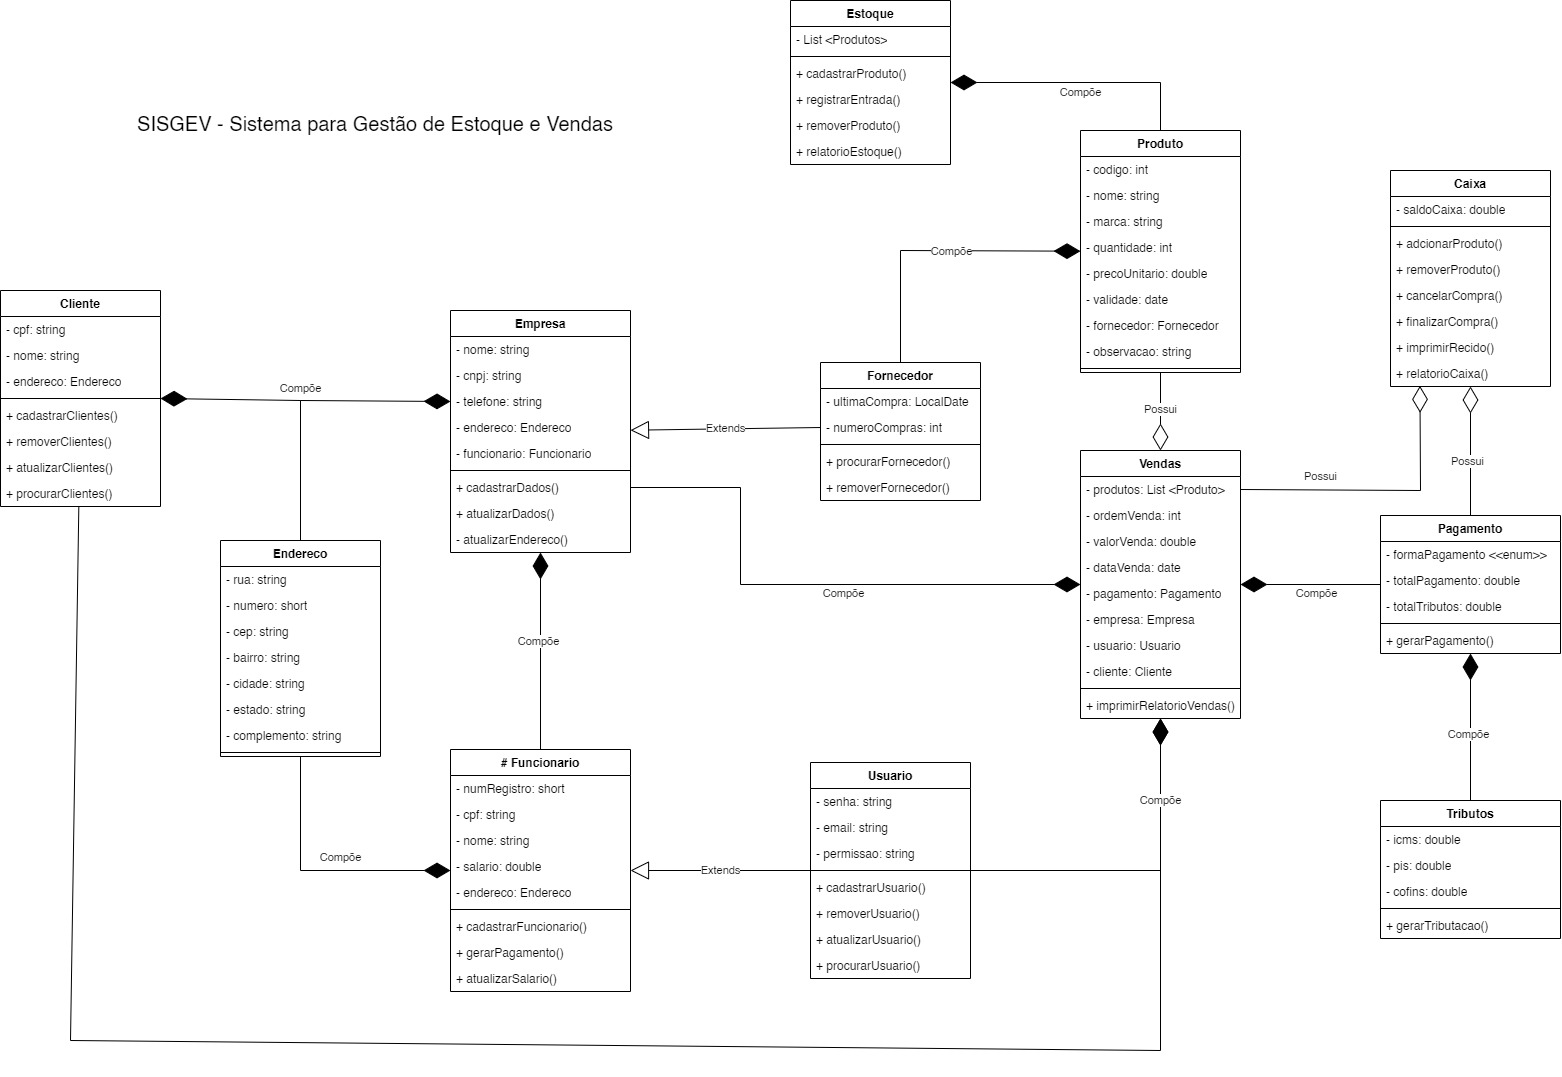
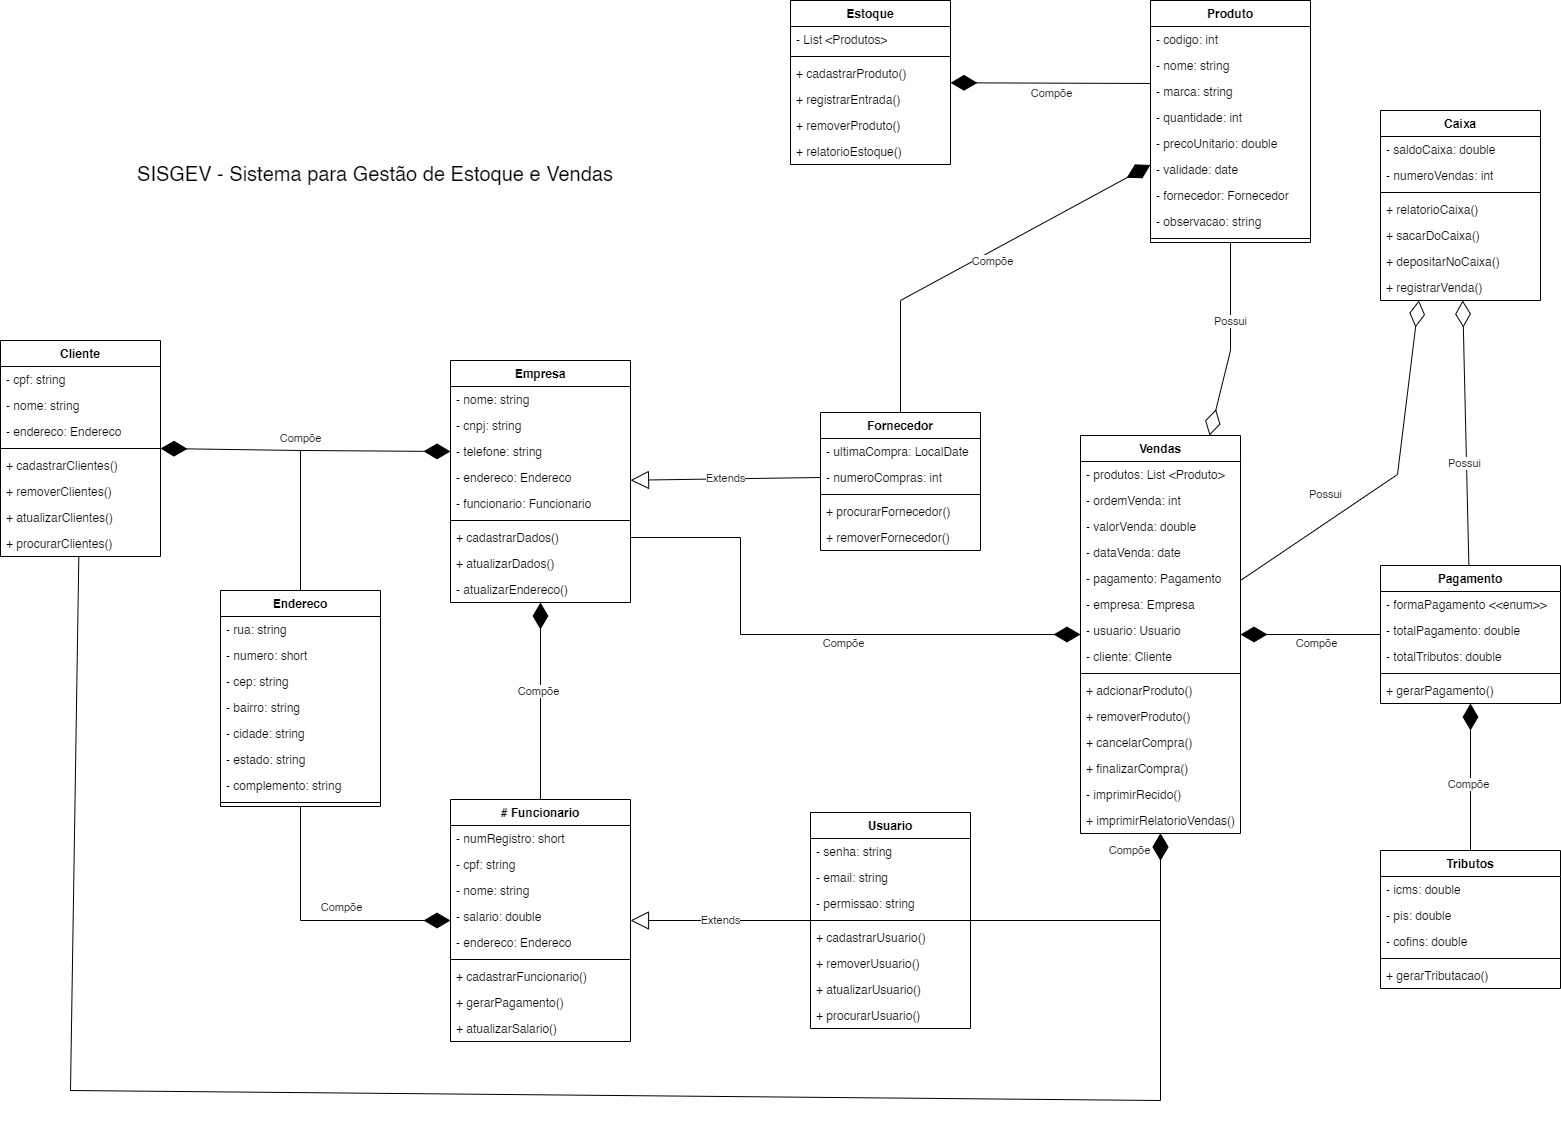
Continuação do desenvolvimento da classe caixa e vendas dos pacotes, com modificação no diagrama.

diff --git a/App/src/com/sisgev/model/empresa/financeiro/Caixa.java b/App/src/com/sisgev/model/empresa/financeiro/Caixa.java
@@ -1,5 +1,24 @@
 package com.sisgev.model.empresa.financeiro;
 
 public class Caixa {
+	
+	private double saldoCaixa = 0.0d;
+	private int numeroVendas = 0;
+	
+	public void sacarDoCaixa(String valor) {
+		this.saldoCaixa = this.saldoCaixa - (Integer.parseInt(valor));
+	}
+	
+	public void depositarNoCaixa(String valor) {
+		this.saldoCaixa = this.saldoCaixa + (Integer.parseInt(valor));
+	} 
+	
+	public String relatorioCaixa() {
+		return "Saldo em caixa: R$ " + this.saldoCaixa + "\nNúmero de Vendas: " + this.numeroVendas;
+	}
+	
+	public void registrarVenda() {
+		this.numeroVendas += 1;
+	}
 
 }

diff --git a/App/src/com/sisgev/model/empresa/financeiro/Vendas.java b/App/src/com/sisgev/model/empresa/financeiro/Vendas.java
@@ -1,5 +1,31 @@
 package com.sisgev.model.empresa.financeiro;
 
+import java.util.ArrayList;
+import java.util.List;
+
+import com.sisgev.model.empresa.logistica.Produto;
+
 public class Vendas {
+	
+	private Caixa caixa = new Caixa();
+	private List<Produto> produtos;
+	
+	public Vendas() {
+		this.produtos = new ArrayList<>();
+	}
+	
+	public void adcionarProduto() {
+		
+	}
+	
+	public void removerProduto() {}
+	
+	public void cancelarCompra() {}
+	
+	public void finalizarCompra() {
+		this.caixa.registrarVenda();
+	}
+	
+	public void imprimirRecibo() {}
 
 }
